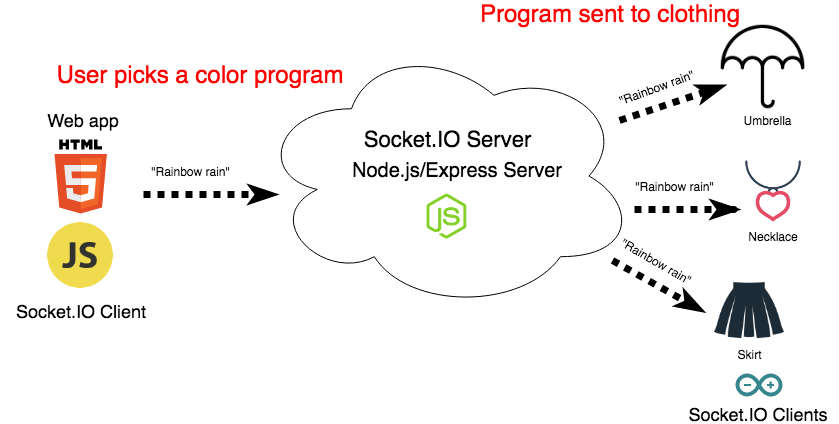
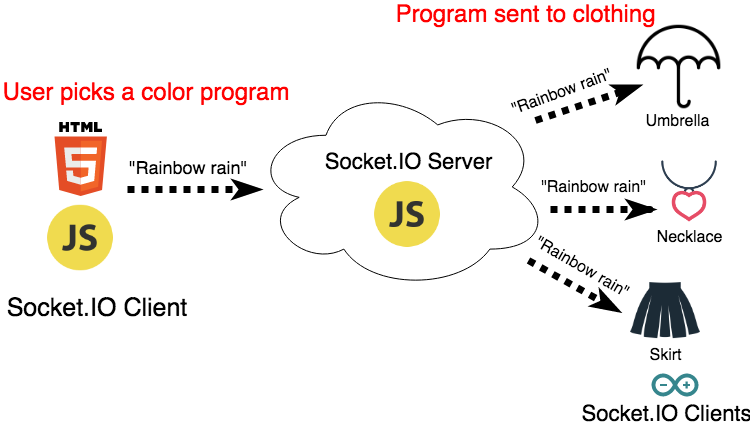
more edits

diff --git a/haute-codeture.md b/haute-codeture.md
@@ -76,13 +76,13 @@ footer: @stephaniecodes
 
 ^ It intentionally blurred the line between artist and viewer
 
-^ The viewer is invited to choose a drawing tool (color, charcoal, or pencil) and place it in a special holder.
+^ The viewer is invited to choose a drawing tool (marker, pen, or pencil) and place it in a holder.
 
-^ When put into motion, the turning wheels would activate the chosen drawing tool, moving it along a piece of paper.
+^ When put into motion, it moves it along a piece of paper.
 
 ^ The result would be a work of art in itself.
 
-^ No longer just watching a process, the viewer, by choosing an artistic instrument, plays a role in the creation of an entirely new work of art.
+^ No longer just watching a process, the viewer, by choosing the drawing tool, plays a role in the creation of an entirely new work of art.
 
 ---
 
@@ -93,7 +93,7 @@ footer: @stephaniecodes
 
 ^ this quote by Tinguely stood out to me.
 
-^ Really liked idea of a temporary experience that connects artist and viewer
+^ Really liked idea of art as a temporary experience that connects an artist and viewer
 
 ^ It's spontaneous and,
 
@@ -101,11 +101,11 @@ footer: @stephaniecodes
 
 ^ I was excited by all these ideas
 
-^ and decided to tackle a hardware project for 1st time
+^ and wanted to use my skillset as a developer
 
-^ wanted to make something where a user anywhere in the world could create some kind of art in app
+^ to make something where a user anywhere in the world could create some kind of art in app
 
-^ and send it to me to enjoy for a small amount of time.
+^ and send it back to me as the artist to enjoy for a small amount of time.
 
 ---
 
@@ -188,7 +188,7 @@ footer: @stephaniecodes
 # Project Plan:
 
 * Web app for user input
-* LEDs + microcontroller in clothing
+* LEDs + hardware in clothing
 
 ![right](rainbow_leds.jpg)
 
@@ -196,11 +196,11 @@ footer: @stephaniecodes
 
 ---
 
-# Project Plan:
+# Project Plan
 
 * Web app for user input
-* LEDs + microcontroller in clothing
-* Socket.IO: relay messages from app to clothing
+* LEDs + hardware in clothing
+* Socket.IO: send messages from app to clothing
 
 ^ Of course, I'll use SocketIO again
 
@@ -210,7 +210,7 @@ footer: @stephaniecodes
 
 ^ Easy setup: node.js server & client libraries
 
-![right fit](led-couture-schema-socketio.png)
+![right 83%](led-couture-schema-socketio.png)
 
 ---
 
@@ -219,8 +219,6 @@ footer: @stephaniecodes
 ^ I had a plan
 
 ^ Applying all the things I learned and worked in my first project
-
-^ No surprises
 
 ^ Everything is gonna go really smoothly
 
@@ -260,6 +258,18 @@ footer: @stephaniecodes
 
 ![inline](led-couture-schema-socketio-heroku.png)
 
+^ Since I was going to build a small web app and use SocketIO before, I didn't have to think much about that part of the project
+
+^ Create a simple web app where users choose a color and program for my clothing
+
+^ Create a socketio server to relay the messages from the app to the hardware
+
+^ Deploy both on a simple express server on Heroku.
+
+^ Main focus was on hardware
+
+^ Most of my focus was on figuring out the hardware bit.
+
 ---
 
 [.build-lists: true]
@@ -270,13 +280,13 @@ footer: @stephaniecodes
 * Durability
 * Wifi connectivity
 
-^ Since I knew I was going to build a small web app and use SocketIO before, I didn't have to think much about that part of the project
-
-^ Main focus was on hardware
-
 ^ Needed to figure out what all I was going to use to control the LEDs in my clothing
 
 ^Must be as discrete/small as possible in my clothing
+
+^ Durable - taking off/on
+
+^ Needed wifi to receive messages from the app.
 
 ---
 
@@ -284,11 +294,20 @@ footer: @stephaniecodes
 
 # Adafruit Feather Huzzah ESP8266
 
+* Arduino
 * Small
 * Wifi built-in
 * Lots of info/tutorials
 
-^I chose this arduino.
+^I chose an arduino.
+
+^ Arduino is a great choice for a project like this
+
+^ cuz i just needed it to run the light programs
+
+^ and listen for new messages from the app and change programs.
+
+^ Adafruit Feather Huzzah
 
 ^it's small, has built-in wifi
 
@@ -326,6 +345,10 @@ footer: @stephaniecodes
 ![inline loop](bike-ride.mp4)
 
 ^So excited to take it out in public!
+
+^ But as you can see in the video
+
+^ My skirt crashes and reboots to a diff program
 
 ^But super FAIL
 
@@ -402,6 +425,8 @@ footer: @stephaniecodes
 
 ^Not communicating between browser and server for my hardware, so that extra overhead for HTTP isn't needed.
 
+^ I needed the most bare minimum (but easy to implement and understand) messaging library possible.
+
 ---
 
 ## What else can I use?
@@ -422,7 +447,7 @@ footer: @stephaniecodes
 
 # MQTT
 
-A lightweight messaging protocol optimized for high-latency or unreliable networks
+A lightweight messaging protocol<br/>optimized for high-latency or unreliable networks
 
 ^Invented in 1999
 
@@ -491,9 +516,7 @@ A lightweight messaging protocol optimized for high-latency or unreliable networ
 
 ![inline 102%](qos.png)[^ ]
 
-[^ ]:
-
-  [http://internetofthingsagenda.techtarget.com/definition/MQTT-MQ-Telemetry-Transport](http://internetofthingsagenda.techtarget.com/definition/MQTT-MQ-Telemetry-Transport)
+[^ ]:[http://internetofthingsagenda.techtarget.com/definition/MQTT-MQ-Telemetry-Transport](http://internetofthingsagenda.techtarget.com/definition/MQTT-MQ-Telemetry-Transport)
 
 ^Quality of Service
 
@@ -505,7 +528,7 @@ A lightweight messaging protocol optimized for high-latency or unreliable networ
 
 ![inline](mqtt-table.jpg)
 
-^MQTT has pretty short specification.
+^MQTT has short and readable specification.
 
 ^ Simple verbs used to describe actions:
 
@@ -522,6 +545,8 @@ A lightweight messaging protocol optimized for high-latency or unreliable networ
 # Setup MQTT Clients + Broker
 
 ![inline](mqtt-pubsub-diagram.png)
+
+^ Needed to rework my app, hardware, and server setup and change it to use to use MQTT instead of socketio.
 
 ---
 
